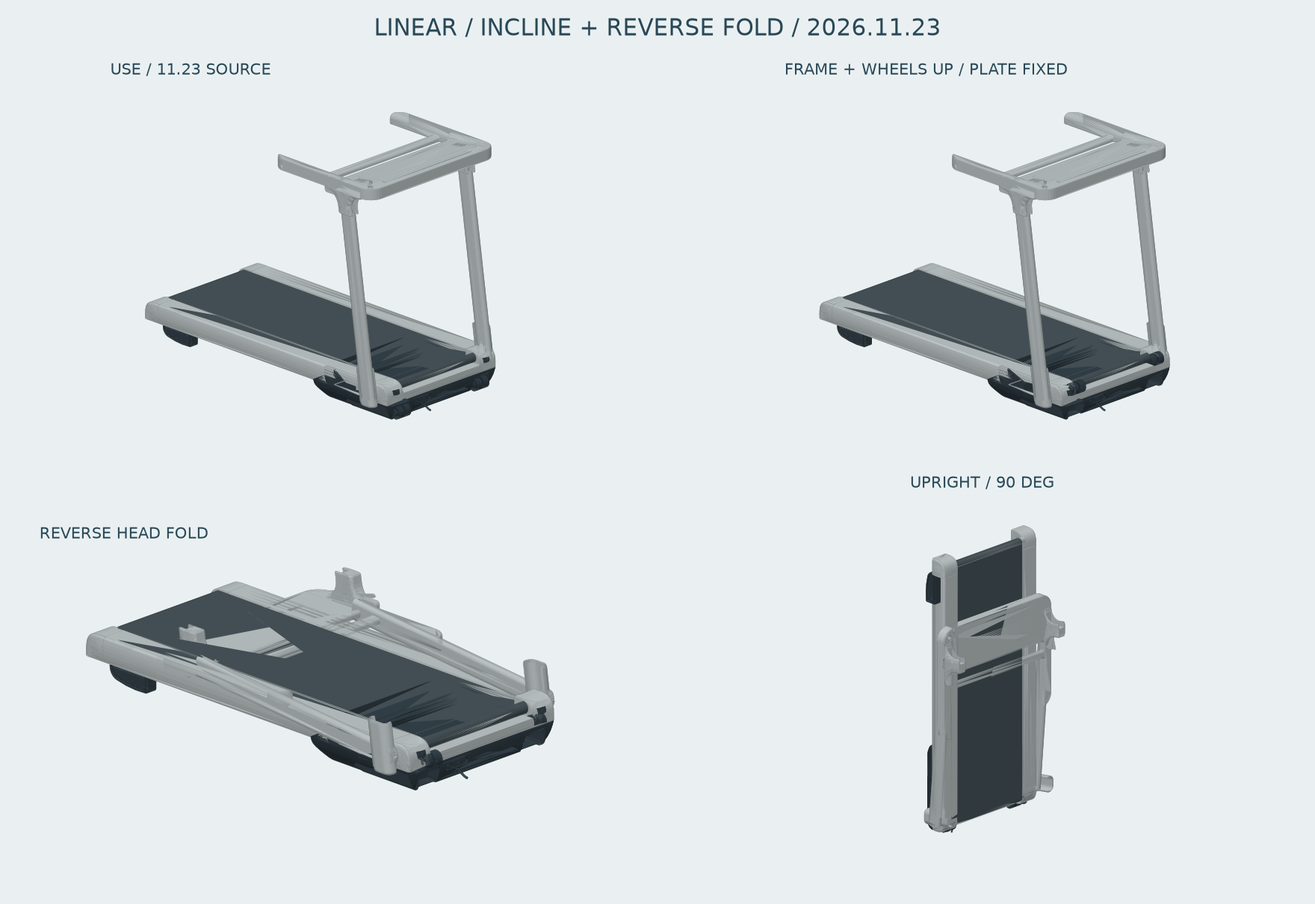
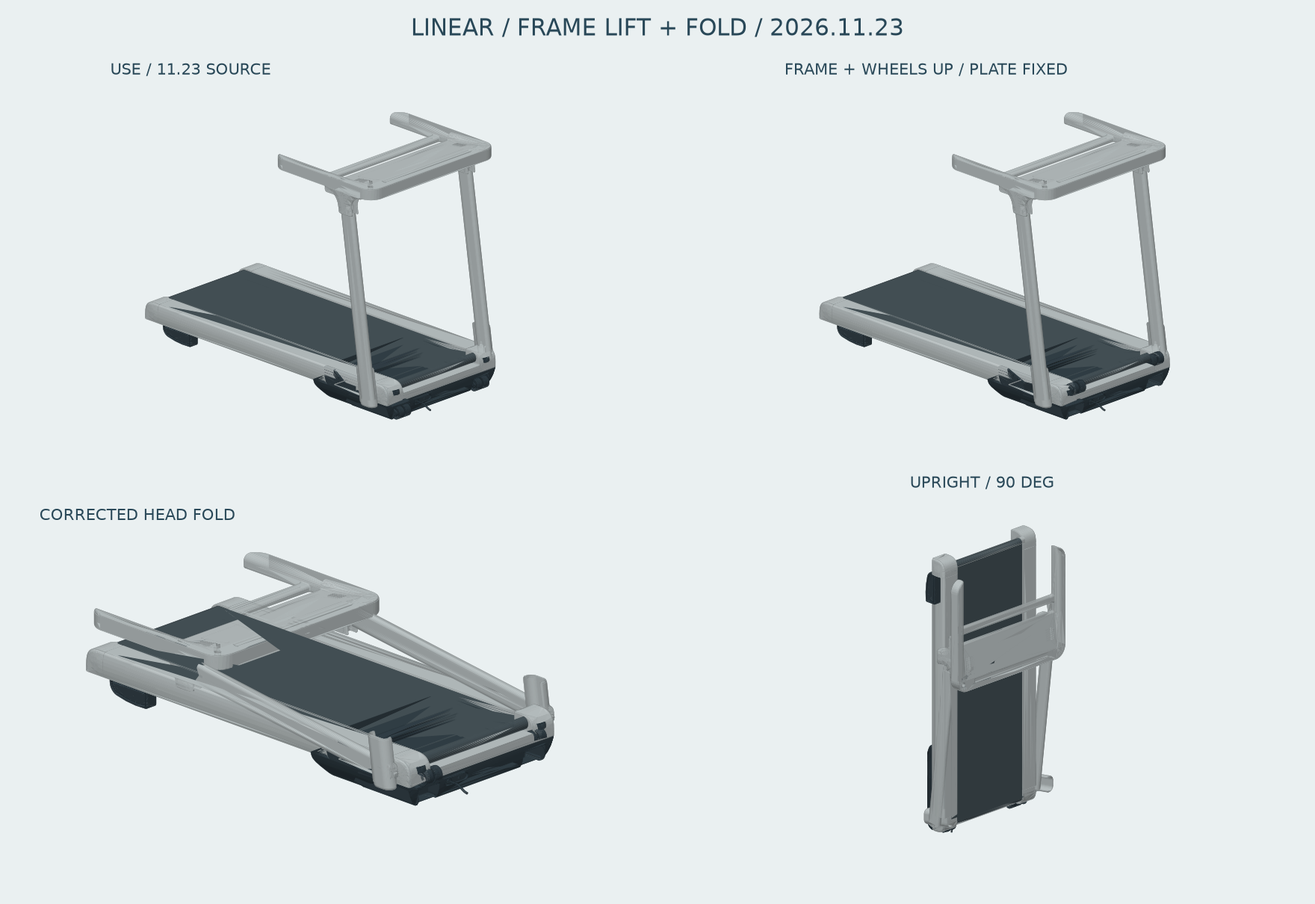
Correct head folding direction while preserving fixed bottom panel and frame-only lift

diff --git a/iterations/linear/index.html b/iterations/linear/index.html
@@ -6,12 +6,12 @@
 <main id="top"><section class="intro"><div><p class="eyebrow">凌序 / DESIGN REVIEW</p><h1>凌序</h1><p class="lead">整机、折叠与用户自选把手。</p></div><div class="review-label"><span class="dot"></span>独立评审稿<span>整机 / 动作 / 选项</span></div></section>
 <div class="review-navigation"><nav class="single-navigation" aria-label="本方案目录"><a href="#whole">整机</a><a href="#body-dimensions">机身尺寸</a><a href="#incline-15">15°抬升态</a><a href="#motion">模型与动作</a><a href="#finishing">点睛之笔</a><a href="#panels">屏幕与面板</a></nav><button class="model-launch" id="open-model"><strong>进入凌序3D模型</strong><span>本方案独立模型 →</span></button></div>
 <section id="whole" aria-label="整机与家居效果图"><div class="section-heading"><span class="section-number">01</span><h2>整机形态</h2><p>点开图片，可放大查看</p></div><article class="product" data-product="linear"><div class="product-heading"><div><span class="eyebrow">01 / LINEAR</span><h2>凌序<span>原STEP结构基准 · 把手支持用户选配</span></h2></div><span class="source-tag">新STEP外形基准 · 效果图待评审</span></div><figure id="linear-main-user" style="max-width:1300px;margin:24px auto;aspect-ratio:1360/768"><button class="zoom" data-image="https://calfnai.github.io/lijiujia-z7pro-model/iterations/review-content-selection-20261117/linear-main-original.png" data-title="凌序 LINEAR · 用户指定主图" aria-label="放大：凌序 LINEAR · 用户指定主图" style="width:100%;height:100%;min-height:0"><img src="https://calfnai.github.io/lijiujia-z7pro-model/iterations/review-content-selection-20261117/linear-main-original.png" alt="凌序 LINEAR · 用户指定主图" loading="lazy" style="display:block;width:100%;height:100%;object-fit:contain"></button></figure><div class="gallery"><figure class="native-bottom"><button class="zoom" data-image="https://calfnai.github.io/lijiujia-z7pro-model/iterations/linear-native-20261115/linear-bottom.webp" data-title="凌序 · 原装配机底与镜面分区" aria-label="放大机底"><img src="https://calfnai.github.io/lijiujia-z7pro-model/iterations/linear-native-20261115/linear-bottom.webp" alt="凌序原装配机底、下置机头与原抬升架" width="1600" height="1200" loading="lazy"><span class="zoom-icon">↗</span></button><figcaption><strong>原装配机底 · 镜面分区</strong><span>保留真实底部与原支架，中央镜面饰板为外观提议；采用可拆卸线缆。</span></figcaption></figure><figure id="linear-current-mirror-0" style="margin:24px auto;max-width:1120px"><button class="zoom" data-image="https://calfnai.github.io/lijiujia-z7pro-model/iterations/presentation-20261115/assets/p2-linear-user-20261116.png" data-title="凌序 · 竖放镜面 · 用户指定原图" aria-label="放大：凌序 · 竖放镜面 · 用户指定原图" style="display:block;width:100%;padding:0;border:0;background:transparent"><img src="https://calfnai.github.io/lijiujia-z7pro-model/iterations/presentation-20261115/assets/p2-linear-user-20261116.png" alt="凌序 · 竖放镜面 · 用户指定原图" loading="lazy" style="display:block;width:100%;height:auto;object-fit:contain"></button></figure></div><p class="small" id="linear-mirror-trim-note">侧饰板下层长条面左右均为银色镜面；竖放后对应两条完整长边。分区要求已确认，图面效果待评审。</p><details id="linear-state-reference"><summary>查看用户补充的使用、折叠、抬升与接地原图</summary><div class="gallery"><figure><button class="zoom" data-image="https://calfnai.github.io/lijiujia-z7pro-model/iterations/linear-native-20261115/source-normal.png" data-title="使用态 · 用户补图" aria-label="放大：使用态 · 用户补图"><img src="https://calfnai.github.io/lijiujia-z7pro-model/iterations/linear-native-20261115/source-normal.png" alt="使用态 · 用户补图" loading="lazy"><span class="zoom-icon">↗</span></button><figcaption><strong>使用态 · 用户补图</strong><span>对应原始装配的外观参考</span></figcaption></figure><figure><button class="zoom" data-image="https://calfnai.github.io/lijiujia-z7pro-model/iterations/linear-native-20261115/source-fold.png" data-title="最终折叠态 · 用户确认" aria-label="放大：最终折叠态 · 用户确认"><img src="https://calfnai.github.io/lijiujia-z7pro-model/iterations/linear-native-20261115/source-fold.png" alt="最终折叠态 · 用户确认" loading="lazy"><span class="zoom-icon">↗</span></button><figcaption><strong>最终折叠态 · 用户确认</strong><span>把手相对翻转，立柱放平；屏幕区域刚好接触跑台</span></figcaption></figure><figure><button class="zoom" data-image="https://calfnai.github.io/lijiujia-z7pro-model/iterations/linear-native-20261115/source-stand-contact.png" data-title="竖放接地 · 用户确认" aria-label="放大：竖放接地 · 用户确认"><img src="https://calfnai.github.io/lijiujia-z7pro-model/iterations/linear-native-20261115/source-stand-contact.png" alt="竖放接地 · 用户确认" loading="lazy"><span class="zoom-icon">↗</span></button><figcaption><strong>竖放接地 · 用户确认</strong><span>机头端脚垫与支架轮子共同支撑</span></figcaption></figure></div></details><section id="lifestyle-scene-linear" style="margin:32px 0;padding:24px;background:#e9e7e1"><h3>凌序｜克制材质 · 包豪斯审美之家</h3><figure id="linear-current-mirror-1" style="margin:24px auto;max-width:1120px"><button class="zoom" data-image="https://calfnai.github.io/lijiujia-z7pro-model/iterations/presentation-20261115/assets/p2-linear-user-20261116.png" data-title="凌序 · 竖放镜面 · 用户指定原图" aria-label="放大：凌序 · 竖放镜面 · 用户指定原图" style="display:block;width:100%;padding:0;border:0;background:transparent"><img src="https://calfnai.github.io/lijiujia-z7pro-model/iterations/presentation-20261115/assets/p2-linear-user-20261116.png" alt="凌序 · 竖放镜面 · 用户指定原图" loading="lazy" style="display:block;width:100%;height:auto;object-fit:contain"></button></figure></section><p id="linear-upright-audit">查看90°侧视核对、原模型与三款复核结果 </p></article></section>
-<section id="body-dimensions" class="body-dimensions"><div class="section-heading"><span class="section-number">尺寸</span><h2>机身尺寸</h2><p>水平使用态 · mm / °</p></div><div class="dimension-metrics"><div><small>整机 · 长 × 宽 × 高</small><strong>1448 × 730 × 1094</strong></div><div><small>跑面 · 长 × 宽</small><strong>1300 × 435</strong></div><div><small>跑面离地</small><strong>172</strong></div><div><small>屏幕对水平面</small><strong>32.1°</strong></div></div><div class="gallery"><figure><button class="zoom" data-image="https://calfnai.github.io/lijiujia-z7pro-model/iterations/review-dimensions-20261116/linear-side.svg" data-title="凌序 · 正侧尺寸与屏幕倾角" aria-label="放大凌序 · 正侧尺寸与屏幕倾角"><img src="https://calfnai.github.io/lijiujia-z7pro-model/iterations/review-dimensions-20261116/linear-side.svg" alt="凌序 · 正侧尺寸与屏幕倾角" width="1600" height="1100" loading="lazy"></button></figure><figure><button class="zoom" data-image="https://calfnai.github.io/lijiujia-z7pro-model/iterations/review-dimensions-20261116/linear-plan.svg" data-title="凌序 · 俯视尺寸" aria-label="放大凌序 · 俯视尺寸"><img src="https://calfnai.github.io/lijiujia-z7pro-model/iterations/review-dimensions-20261116/linear-plan.svg" alt="凌序 · 俯视尺寸" width="1600" height="1100" loading="lazy"></button></figure></div></section><section id="incline-15"><div class="section-heading"><span class="section-number">15°</span><h2>抬升态 · 跑台与地面15°</h2><p>以跑带工作面为角度基准</p></div><p style="margin:20px 0"><button id="start-incline" style="padding:15px 23px;background:#405c4c;color:white;border:0;border-radius:6px;font-size:19px;font-weight:700;cursor:pointer">播放抬升过程 · 0°—15° ↗</button></p><div class="gallery"><figure><button class="zoom" data-image="https://calfnai.github.io/lijiujia-z7pro-model/iterations/linear/incline-15-side.webp" data-title="凌序抬升态 · 正侧面 · 15°" aria-label="放大15度抬升态"><img src="https://calfnai.github.io/lijiujia-z7pro-model/iterations/linear/incline-15-side.webp" alt="凌序跑台与地面15度 · 正侧面" width="1800" height="1100" loading="lazy"><span class="zoom-icon">↗</span></button><figcaption><strong>凌序 · 正侧面</strong><span>跑台工作面与水平地面15° · 抬升架展开 · 轮组保持接地</span></figcaption></figure><figure><button class="zoom" data-image="https://calfnai.github.io/lijiujia-z7pro-model/iterations/linear/incline-15-left.webp?rev=review-withdrawals-easycord-20261116" data-title="凌序抬升态 · 45° · 15°" aria-label="放大15度抬升态"><img src="https://calfnai.github.io/lijiujia-z7pro-model/iterations/linear/incline-15-left.webp?rev=review-withdrawals-easycord-20261116" alt="凌序跑台与地面15度 · 45°" width="1800" height="1100" loading="lazy"><span class="zoom-icon">↗</span></button><figcaption><strong>凌序 · 45°</strong><span>跑台工作面与水平地面15° · 抬升架展开 · 轮组保持接地</span></figcaption></figure></div><p>跑板与水平地面15°；抬升架沿原轴展开，四个轮子的最低点与后支撑均落在同一地面。接地姿态已核对；原CAD存在局部实体重叠，推杆限位与承载仍待核验。</p><p><a href="https://calfnai.github.io/lijiujia-z7pro-model/iterations/linear/model.html?rev=linear-motion-fixed-plate-r2" target="_blank" rel="noopener">打开本款15°抬升态模型 ↗</a></p><details><summary>原始补图（保留参考，当前目标角度统一为15°）</summary><figure><button class="zoom" data-image="https://calfnai.github.io/lijiujia-z7pro-model/iterations/linear-native-20261115/source-incline.png" data-title="抬升态 · 用户补图" aria-label="放大：抬升态 · 用户补图"><img src="https://calfnai.github.io/lijiujia-z7pro-model/iterations/linear-native-20261115/source-incline.png" alt="抬升态 · 用户补图" loading="lazy"><span class="zoom-icon">↗</span></button><figcaption><strong>抬升态 · 用户补图</strong><span>原支架、下置机头与跑台的关系</span></figcaption></figure></details></section><section id="motion"><div class="section-heading"><span class="section-number">02</span><h2>模型与动作</h2><p>凌序</p></div><section id="linear-fold-r2" style="margin:32px 0;padding:24px;background:#eee9df"><h3>凌序 · 收平抬升架与扶手折叠</h3><p>先收平抬升架与推杆，再翻转扶手屏幕、放平立柱。屏幕区域刚好接触跑台，扶手不低于收平后的机身。</p><video controls="" playsinline="" preload="none" poster="https://calfnai.github.io/lijiujia-z7pro-model/iterations/linear-fold-r2-20261115/linear-folded-side.webp?rev=compact-fold-20261115b" style="display:block;width:100%;max-height:720px" src="https://calfnai.github.io/lijiujia-z7pro-model/iterations/linear-fold-r2-20261115/linear-fold-r2.mp4?rev=compact-fold-20261115b">浏览器不支持视频，请打开交互模型。</video><p><a href="https://calfnai.github.io/lijiujia-z7pro-model/iterations/linear/model.html?rev=linear-motion-fixed-plate-r2" target="_blank" rel="noopener" style="display:inline-block;padding:12px 18px;background:#405c4c;color:white">播放／拖动把手折叠 ↗</a></p><p style="font-size:13px">原始网格保留。按用户截图更新把手和立柱的运动关系；解锁、锁止与承载仍待工程核验。</p></section><div class="motion-shell"><div class="motion-poster" id="motion-poster"><div><p>从静态，进入动作。</p><button id="start-model">打开互动模型 · 抬升／折叠 <span>↗</span></button><small>整机、折叠与用户自选把手。</small></div></div><iframe id="model-frame" title="凌序独立模型" hidden=""></iframe><p id="model-error" hidden="" role="alert">模型暂未载入。<button id="retry-model">重试</button></p></div><p class="caption-note">模型用于外观与动作评审；工程核验状态以模型内说明为准。防滑材质位置未核实，当前不赋予推测覆盖区域。</p></section>
+<section id="body-dimensions" class="body-dimensions"><div class="section-heading"><span class="section-number">尺寸</span><h2>机身尺寸</h2><p>水平使用态 · mm / °</p></div><div class="dimension-metrics"><div><small>整机 · 长 × 宽 × 高</small><strong>1448 × 730 × 1094</strong></div><div><small>跑面 · 长 × 宽</small><strong>1300 × 435</strong></div><div><small>跑面离地</small><strong>172</strong></div><div><small>屏幕对水平面</small><strong>32.1°</strong></div></div><div class="gallery"><figure><button class="zoom" data-image="https://calfnai.github.io/lijiujia-z7pro-model/iterations/review-dimensions-20261116/linear-side.svg" data-title="凌序 · 正侧尺寸与屏幕倾角" aria-label="放大凌序 · 正侧尺寸与屏幕倾角"><img src="https://calfnai.github.io/lijiujia-z7pro-model/iterations/review-dimensions-20261116/linear-side.svg" alt="凌序 · 正侧尺寸与屏幕倾角" width="1600" height="1100" loading="lazy"></button></figure><figure><button class="zoom" data-image="https://calfnai.github.io/lijiujia-z7pro-model/iterations/review-dimensions-20261116/linear-plan.svg" data-title="凌序 · 俯视尺寸" aria-label="放大凌序 · 俯视尺寸"><img src="https://calfnai.github.io/lijiujia-z7pro-model/iterations/review-dimensions-20261116/linear-plan.svg" alt="凌序 · 俯视尺寸" width="1600" height="1100" loading="lazy"></button></figure></div></section><section id="incline-15"><div class="section-heading"><span class="section-number">15°</span><h2>抬升态 · 跑台与地面15°</h2><p>以跑带工作面为角度基准</p></div><p style="margin:20px 0"><button id="start-incline" style="padding:15px 23px;background:#405c4c;color:white;border:0;border-radius:6px;font-size:19px;font-weight:700;cursor:pointer">播放抬升过程 · 0°—15° ↗</button></p><div class="gallery"><figure><button class="zoom" data-image="https://calfnai.github.io/lijiujia-z7pro-model/iterations/linear/incline-15-side.webp" data-title="凌序抬升态 · 正侧面 · 15°" aria-label="放大15度抬升态"><img src="https://calfnai.github.io/lijiujia-z7pro-model/iterations/linear/incline-15-side.webp" alt="凌序跑台与地面15度 · 正侧面" width="1800" height="1100" loading="lazy"><span class="zoom-icon">↗</span></button><figcaption><strong>凌序 · 正侧面</strong><span>跑台工作面与水平地面15° · 抬升架展开 · 轮组保持接地</span></figcaption></figure><figure><button class="zoom" data-image="https://calfnai.github.io/lijiujia-z7pro-model/iterations/linear/incline-15-left.webp?rev=review-withdrawals-easycord-20261116" data-title="凌序抬升态 · 45° · 15°" aria-label="放大15度抬升态"><img src="https://calfnai.github.io/lijiujia-z7pro-model/iterations/linear/incline-15-left.webp?rev=review-withdrawals-easycord-20261116" alt="凌序跑台与地面15度 · 45°" width="1800" height="1100" loading="lazy"><span class="zoom-icon">↗</span></button><figcaption><strong>凌序 · 45°</strong><span>跑台工作面与水平地面15° · 抬升架展开 · 轮组保持接地</span></figcaption></figure></div><p>跑板与水平地面15°；抬升架沿原轴展开，四个轮子的最低点与后支撑均落在同一地面。接地姿态已核对；原CAD存在局部实体重叠，推杆限位与承载仍待核验。</p><p><a href="https://calfnai.github.io/lijiujia-z7pro-model/iterations/linear/model.html?rev=linear-motion-fold-direction-r3" target="_blank" rel="noopener">打开本款15°抬升态模型 ↗</a></p><details><summary>原始补图（保留参考，当前目标角度统一为15°）</summary><figure><button class="zoom" data-image="https://calfnai.github.io/lijiujia-z7pro-model/iterations/linear-native-20261115/source-incline.png" data-title="抬升态 · 用户补图" aria-label="放大：抬升态 · 用户补图"><img src="https://calfnai.github.io/lijiujia-z7pro-model/iterations/linear-native-20261115/source-incline.png" alt="抬升态 · 用户补图" loading="lazy"><span class="zoom-icon">↗</span></button><figcaption><strong>抬升态 · 用户补图</strong><span>原支架、下置机头与跑台的关系</span></figcaption></figure></details></section><section id="motion"><div class="section-heading"><span class="section-number">02</span><h2>模型与动作</h2><p>凌序</p></div><section id="linear-fold-r2" style="margin:32px 0;padding:24px;background:#eee9df"><h3>凌序 · 收平抬升架与扶手折叠</h3><p>先收平抬升架与推杆，再翻转扶手屏幕、放平立柱。屏幕区域刚好接触跑台，扶手不低于收平后的机身。</p><video controls="" playsinline="" preload="none" poster="https://calfnai.github.io/lijiujia-z7pro-model/iterations/linear-fold-r2-20261115/linear-folded-side.webp?rev=compact-fold-20261115b" style="display:block;width:100%;max-height:720px" src="https://calfnai.github.io/lijiujia-z7pro-model/iterations/linear-fold-r2-20261115/linear-fold-r2.mp4?rev=compact-fold-20261115b">浏览器不支持视频，请打开交互模型。</video><p><a href="https://calfnai.github.io/lijiujia-z7pro-model/iterations/linear/model.html?rev=linear-motion-fold-direction-r3" target="_blank" rel="noopener" style="display:inline-block;padding:12px 18px;background:#405c4c;color:white">播放／拖动把手折叠 ↗</a></p><p style="font-size:13px">原始网格保留。按用户截图更新把手和立柱的运动关系；解锁、锁止与承载仍待工程核验。</p></section><div class="motion-shell"><div class="motion-poster" id="motion-poster"><div><p>从静态，进入动作。</p><button id="start-model">打开互动模型 · 抬升／折叠 <span>↗</span></button><small>整机、折叠与用户自选把手。</small></div></div><iframe id="model-frame" title="凌序独立模型" hidden=""></iframe><p id="model-error" hidden="" role="alert">模型暂未载入。<button id="retry-model">重试</button></p></div><p class="caption-note">模型用于外观与动作评审；工程核验状态以模型内说明为准。防滑材质位置未核实，当前不赋予推测覆盖区域。</p></section>
 <!-- FOLD-ACCESS-START --><!-- FOLD-ACCESS-END --><section id="finishing"><div class="section-heading"><span class="section-number">03</span><h2>点睛之笔</h2><p>整机与动作之后，再看细节</p></div><div data-detail="linear"><!-- LINEAR-GRIPS-START --><div id="linear-grips"><div class="detail-heading"><h3>凌序 · 把手 Options（用户自选）</h3><p>四款把手面向用户提供个性化选择，可按握感、材质与功能偏好选配；多样化把手选配是凌序的产品卖点之一。</p></div><div class="details-grid"><figure class="detail-card"><button class="zoom" data-image="https://calfnai.github.io/lijiujia-z7pro-model/iterations/linear-grip-side-cut-r5-20261116/01-diagonal-antislip.webp" data-title="斜筋防滑握把（细化）" aria-label="放大：斜筋防滑握把（细化）"><img src="https://calfnai.github.io/lijiujia-z7pro-model/iterations/linear-grip-side-cut-r5-20261116/01-diagonal-antislip.webp" width="1774" height="887" alt="斜筋防滑握把（细化）：用户指定当前图稿" loading="lazy"><span class="zoom-icon" aria-hidden="true">↗</span></button><figcaption><strong>01 · 斜筋防滑握把（细化）</strong><span>用户指定图稿与名称</span></figcaption><div class="texture-details"><p class="texture-label">纹理细节 · 细浅斜筋</p><button class="zoom texture-close" data-image="https://calfnai.github.io/lijiujia-z7pro-model/iterations/linear-grip-side-cut-r5-20261116/01-diagonal-antislip.webp" data-title="细浅斜筋 · 已验收方案局部" aria-label="放大：细浅斜筋 · 已验收方案局部"><img src="https://calfnai.github.io/lijiujia-z7pro-model/iterations/linear-grip-side-cut-r5-20261116/01-diagonal-antislip.webp" alt="细浅斜筋 · 已验收方案局部" loading="lazy"><span class="zoom-icon" aria-hidden="true">↗</span></button><p class="texture-note">已验收图稿的局部放大 · 点击查看完整原图</p></div></figure><figure class="detail-card"><button class="zoom" data-image="https://calfnai.github.io/lijiujia-z7pro-model/iterations/linear-grip-side-cut-r5-20261116/02-leather.webp" data-title="皮质握把" aria-label="放大：皮质握把"><img src="https://calfnai.github.io/lijiujia-z7pro-model/iterations/linear-grip-side-cut-r5-20261116/02-leather.webp" width="1774" height="887" alt="皮质握把修订概念" loading="lazy"><span class="zoom-icon" aria-hidden="true">↗</span></button><figcaption><strong>02 · 皮质握把</strong><span>用户已验收通过</span></figcaption><div class="texture-details"><p class="texture-label">纹理细节 · 细皮纹与缝线</p><button class="zoom texture-close" data-image="https://calfnai.github.io/lijiujia-z7pro-model/iterations/linear-grip-side-cut-r5-20261116/02-leather.webp" data-title="细皮纹与缝线 · 已验收方案局部" aria-label="放大：细皮纹与缝线 · 已验收方案局部"><img src="https://calfnai.github.io/lijiujia-z7pro-model/iterations/linear-grip-side-cut-r5-20261116/02-leather.webp" alt="细皮纹与缝线 · 已验收方案局部" loading="lazy"><span class="zoom-icon" aria-hidden="true">↗</span></button><p class="texture-note">已验收图稿的局部放大 · 点击查看完整原图</p><button class="zoom texture-photo" data-image="https://calfnai.github.io/lijiujia-z7pro-model/iterations/linear-grip-texture-details-20261117/02-leather-reference.png" data-title="皮纹与缝线 · 用户提供的材质参考" aria-label="放大：皮纹与缝线 · 用户提供的材质参考"><img src="https://calfnai.github.io/lijiujia-z7pro-model/iterations/linear-grip-texture-details-20261117/02-leather-reference.png" alt="皮纹与缝线 · 用户提供的材质参考" loading="lazy"><span class="zoom-icon" aria-hidden="true">↗</span></button><p class="texture-note">皮纹与缝线 · 用户提供的材质参考。观察细皮纹、表面光泽与缝线。</p></div></figure><figure class="detail-card"><button class="zoom" data-image="https://calfnai.github.io/lijiujia-z7pro-model/iterations/linear-grip-side-cut-r5-20261116/03-fine-grid-silicone.webp" data-title="流线硅胶握把" aria-label="放大：流线硅胶握把"><img src="https://calfnai.github.io/lijiujia-z7pro-model/iterations/linear-grip-side-cut-r5-20261116/03-fine-grid-silicone.webp" width="1774" height="887" alt="流线硅胶握把：B细交叉网格版，用户确认" loading="lazy"><span class="zoom-icon" aria-hidden="true">↗</span></button><figcaption><strong>03 · 流线硅胶握把</strong><span>已确认B细交叉网格 · 用户可选把手</span></figcaption><div class="texture-details"><p class="texture-label">纹理细节 · B细交叉网格</p><button class="zoom texture-close" data-image="https://calfnai.github.io/lijiujia-z7pro-model/iterations/linear-grip-side-cut-r5-20261116/03-fine-grid-silicone.webp" data-title="B细交叉网格 · 已验收方案局部" aria-label="放大：B细交叉网格 · 已验收方案局部"><img src="https://calfnai.github.io/lijiujia-z7pro-model/iterations/linear-grip-side-cut-r5-20261116/03-fine-grid-silicone.webp" alt="B细交叉网格 · 已验收方案局部" loading="lazy"><span class="zoom-icon" aria-hidden="true">↗</span></button><p class="texture-note">已验收图稿的局部放大 · 点击查看完整原图</p><button class="zoom texture-photo texture-grid-photo" data-image="https://calfnai.github.io/lijiujia-z7pro-model/iterations/linear-grip-texture-details-20261117/03-grid-reference.png?rev=ixo6-original-20261117" data-title="浅交叉纹 · Bosch IXO 6 原始大图" aria-label="放大：浅交叉纹 · Bosch IXO 6 原始大图"><img src="https://calfnai.github.io/lijiujia-z7pro-model/iterations/linear-grip-texture-details-20261117/03-grid-reference.png?rev=ixo6-original-20261117" alt="浅交叉纹 · Bosch IXO 6 原始大图" width="2304" height="1536" loading="lazy"><span class="zoom-icon" aria-hidden="true">↗</span></button><p class="texture-note">浅交叉纹 · Bosch IXO 6 原始大图 · 2304×1536。局部展示浅交叉网格，点击查看完整原图。</p><a class="texture-source" href="https://ifdesign.com/en/winner-ranking/project/ixo-6/260193" target="_blank" rel="noopener">原始图片来源 · iF Design ↗</a></div></figure><figure class="detail-card"><button class="zoom" data-image="https://calfnai.github.io/lijiujia-z7pro-model/iterations/linear-grip-side-cut-r5-20261116/04-heart-rate.webp" data-title="心率监测把手"><img src="https://calfnai.github.io/lijiujia-z7pro-model/iterations/linear-grip-side-cut-r5-20261116/04-heart-rate.webp" width="1774" height="887" alt="沿用心率电极布局概念" loading="lazy"></button><figcaption><strong>04 · 心率监测把手</strong><span>沿用上轮 · 电路与实测未完成</span></figcaption><div class="texture-details"><p class="texture-label">纹理细节 · 金属电极与包胶边界</p><button class="zoom texture-close" data-image="https://calfnai.github.io/lijiujia-z7pro-model/iterations/linear-grip-side-cut-r5-20261116/04-heart-rate.webp" data-title="金属电极与包胶边界 · 已验收方案局部" aria-label="放大：金属电极与包胶边界 · 已验收方案局部"><img src="https://calfnai.github.io/lijiujia-z7pro-model/iterations/linear-grip-side-cut-r5-20261116/04-heart-rate.webp" alt="金属电极与包胶边界 · 已验收方案局部" loading="lazy"><span class="zoom-icon" aria-hidden="true">↗</span></button><p class="texture-note">已验收图稿的局部放大 · 点击查看完整原图</p></div></figure></div><p class="small">四款已确认材质改为正侧面局部展示；金属与握把直接切齐分界，不做渐变。本组不展示屏幕，2026.11.16 · 用户已验收通过。尺寸、接口、承载与折叠净距待校核。<a href="https://calfnai.github.io/lijiujia-z7pro-model/iterations/linear-grip-side-cut-r5-20261116/" target="_blank" rel="noopener">查看标准连接处与四款材质特写 ↗</a></p><details id="linear-grip-history"><summary class="discussion-title">凌序 · 把手历史图稿</summary><p id="silicone-all-versions-link" class="small"><a href="https://calfnai.github.io/lijiujia-z7pro-model/iterations/linear-silicone-review-20261114/" target="_blank" rel="noopener">查看硅胶握把全部历史原图 A–D ↗</a> · 已确认B｜细交叉网格版为流线硅胶握把；其他把手方案暂保留。</p></details></div><!-- LINEAR-GRIPS-END --><details id="linear-corner-options"><summary style="font-size:20px;font-weight:700;padding:18px 0;cursor:pointer">凌序 · 转角 Options讨论稿</summary><p>整机基准以STEP为准；四种转角外观方案并列讨论，尚未选定。</p><div class="details-grid"><figure class="detail-card"><button class="zoom" data-image="https://calfnai.github.io/lijiujia-z7pro-model/iterations/linear-junction-20261113/web/01-continuous-radius.webp" data-title="一体圆角" aria-label="放大：一体圆角"><img src="https://calfnai.github.io/lijiujia-z7pro-model/iterations/linear-junction-20261113/web/01-continuous-radius.webp" alt="一体圆角" width="1600" height="1200" loading="lazy"><span class="zoom-icon" aria-hidden="true">↗</span></button><figcaption><strong>一体圆角</strong><span>既有四种外观提议 · 尚未选定</span></figcaption></figure><figure class="detail-card"><button class="zoom" data-image="https://calfnai.github.io/lijiujia-z7pro-model/iterations/linear-junction-20261113/web/02-chamfered-shoulder.webp" data-title="折面肩部" aria-label="放大：折面肩部"><img src="https://calfnai.github.io/lijiujia-z7pro-model/iterations/linear-junction-20261113/web/02-chamfered-shoulder.webp" alt="折面肩部" width="1600" height="1200" loading="lazy"><span class="zoom-icon" aria-hidden="true">↗</span></button><figcaption><strong>折面肩部</strong><span>既有四种外观提议 · 尚未选定</span></figcaption></figure><figure class="detail-card"><button class="zoom" data-image="https://calfnai.github.io/lijiujia-z7pro-model/iterations/linear-junction-20261113/web/03-recessed-collar.webp" data-title="分件包覆" aria-label="放大：分件包覆"><img src="https://calfnai.github.io/lijiujia-z7pro-model/iterations/linear-junction-20261113/web/03-recessed-collar.webp" alt="分件包覆" width="1600" height="1200" loading="lazy"><span class="zoom-icon" aria-hidden="true">↗</span></button><figcaption><strong>分件包覆</strong><span>既有四种外观提议 · 尚未选定</span></figcaption></figure><figure class="detail-card"><button class="zoom" data-image="https://calfnai.github.io/lijiujia-z7pro-model/iterations/linear-junction-20261113/web/04-inset-support.webp" data-title="内收支撑" aria-label="放大：内收支撑"><img src="https://calfnai.github.io/lijiujia-z7pro-model/iterations/linear-junction-20261113/web/04-inset-support.webp" alt="内收支撑" width="1600" height="1200" loading="lazy"><span class="zoom-icon" aria-hidden="true">↗</span></button><figcaption><strong>内收支撑</strong><span>既有四种外观提议 · 尚未选定</span></figcaption></figure></div></details></div></section><section id="panels"><div class="section-heading"><span class="section-number">04</span><h2>屏幕与面板</h2><p>两版屏幕原图并列</p></div><div class="details-grid screen-baselines"><figure><button class="zoom" data-image="https://calfnai.github.io/lijiujia-z7pro-model/iterations/screen-baselines-20261116/01-round-buttons-original.png" data-title="屏幕原图 · 圆形按键版" aria-label="放大屏幕原图 · 圆形按键版" style="display:block;width:100%;height:auto;aspect-ratio:auto;padding:0;border:0"><img src="https://calfnai.github.io/lijiujia-z7pro-model/iterations/screen-baselines-20261116/01-round-buttons-original.png" alt="屏幕原图 · 圆形按键版" width="1280" height="319" loading="lazy" style="width:100%;height:auto!important;aspect-ratio:auto;object-fit:contain"></button><figcaption>圆形按键版</figcaption></figure><figure><button class="zoom" data-image="https://calfnai.github.io/lijiujia-z7pro-model/iterations/screen-baselines-20261116/02-separate-buttons-original.png" data-title="屏幕原图 · 分列按键版" aria-label="放大屏幕原图 · 分列按键版" style="display:block;width:100%;height:auto;aspect-ratio:auto;padding:0;border:0"><img src="https://calfnai.github.io/lijiujia-z7pro-model/iterations/screen-baselines-20261116/02-separate-buttons-original.png" alt="屏幕原图 · 分列按键版" width="2508" height="627" loading="lazy" style="width:100%;height:auto!important;aspect-ratio:auto;object-fit:contain"></button><figcaption>分列按键版</figcaption></figure></div><p class="caption-note">两版屏幕原图并列保留，未二选一；完整显示并保持各自原比例。屏幕画面与面板外壳分别评审。</p><details id="linear-panel-discussion"><summary class="discussion-title">凌序 · 面板外观讨论稿</summary><div class="details-grid"><figure><button class="zoom" data-image="https://calfnai.github.io/lijiujia-z7pro-model/iterations/panel-redesign-v03-20261115/C2.png" data-title="凌序面板 C2" aria-label="放大面板 C2"><img src="https://calfnai.github.io/lijiujia-z7pro-model/iterations/panel-redesign-v03-20261115/C2.png" alt="凌序面板 C2" loading="lazy"><span class="zoom-icon">↗</span></button><figcaption>凌序 · C2（外壳参考）</figcaption></figure></div><p class="caption-note">C2保留为既有面板外壳参考；其中旧屏幕画面与表面映射不作为当前屏幕基准。</p><figure><button class="zoom" data-image="https://calfnai.github.io/lijiujia-z7pro-model/iterations/linear-panel-c2-20261115/model-panel-c2.webp" data-title="C2已映射到凌序原面板"><img style="width:100%;height:auto" src="https://calfnai.github.io/lijiujia-z7pro-model/iterations/linear-panel-c2-20261115/model-panel-c2.webp" loading="lazy" alt="C2映射到原CAD面板表面"></button><figcaption>C2 · 既有映射参考</figcaption></figure><section id="yu7-console-review" aria-label="YU7感觉参考面板" style="margin:24px 0;padding:22px 24px;border-radius:14px;background:#142128;color:#dfebe7"><strong style="display:block;font-size:22px;margin-bottom:8px">凌序「天际横带」· 面板讨论稿</strong><span style="display:block;margin-bottom:12px">参照YU7仪表台的贯穿信息带与材质分层，冷白主读数、固定蓝紫流线和钛色操作下沿。新增候选，待评审。</span><a style="color:#bbd5e1;text-decoration:underline" href="https://calfnai.github.io/lijiujia-z7pro-model/iterations/yu7-console-20261115/" target="_blank" rel="noopener">打开单款面板与放大图 ↗</a></section></details></section><section id="selected-scope"><div class="section-heading"><span class="section-number">05</span><h2>方案讨论稿</h2></div><details id="linear-manufacturer-discussion"><summary class="discussion-title">凌序 · 厂商选用项讨论稿</summary><p>镜面底面与额外增稳机构为本方案的厂商可选项，具体采用范围待深化评估。</p><p>B细交叉网格为已选纹理；实际防滑覆盖位置尚未核实，错误五视图维持撤回。</p></details></section>
 
 <footer><span>LIJIUJIA / 凌序</span><a href="#top">回到顶部 ↑</a></footer></main>
 <dialog id="lightbox" aria-label="图片放大查看"><div class="lightbox-bar"><span id="lightbox-title"></span><div><button id="zoom-out" aria-label="缩小">−</button><button id="zoom-in" aria-label="放大">＋</button><button id="close-lightbox">关闭 ×</button></div></div><div id="lightbox-scroll"><img id="lightbox-image" alt=""></div><p>点击加减放大；放大后可滚动查看局部。</p></dialog>
-<script>const PRODUCT={"name": "\u51cc\u5e8f", "model": "https://calfnai.github.io/lijiujia-z7pro-model/iterations/linear/model.html?rev=linear-motion-fixed-plate-r2", "fold": "https://calfnai.github.io/lijiujia-z7pro-model/iterations/linear/model.html?rev=linear-motion-fixed-plate-r2"},$=id=>document.getElementById(id);
+<script>const PRODUCT={"name": "\u51cc\u5e8f", "model": "https://calfnai.github.io/lijiujia-z7pro-model/iterations/linear/model.html?rev=linear-motion-fold-direction-r3", "fold": "https://calfnai.github.io/lijiujia-z7pro-model/iterations/linear/model.html?rev=linear-motion-fold-direction-r3"},$=id=>document.getElementById(id);
 function start(mode){const f=$('model-frame');$('model-error').hidden=true;$('motion-poster').hidden=true;f.hidden=false;f.src=PRODUCT.model+(mode==='incline'?'&incline=play':'');}
 $('start-incline').onclick=()=>{start('incline');$('model-frame').scrollIntoView({behavior:matchMedia('(prefers-reduced-motion: reduce)').matches?'instant':'smooth'})};
 $('start-model').onclick=start;$('retry-model').onclick=start;$('open-model').onclick=()=>{if(!$('model-frame').getAttribute('src'))start();$('motion').scrollIntoView({behavior:matchMedia('(prefers-reduced-motion: reduce)').matches?'instant':'smooth'})};

diff --git a/iterations/linear/motion-20261123/motion.js b/iterations/linear/motion-20261123/motion.js
@@ -16,7 +16,7 @@ function minWorld(list){body.updateMatrixWorld(true);let min=Infinity;for(const 
 function pose(){post.rotation.z=lowerEnd*clamp((progress-.45)/.55);head.rotation.z=headEnd*clamp((progress-.18)/.27);lift.rotation.z=-rad(9.12)*clamp(progress/.18);body.rotation.z=standing?Math.PI/2:0;body.position.set(0,0,0);
 if(progress===0&&!standing){body.position.y=restingHeight;lift.rotation.z=-rad(angle);}else{body.position.y=-minWorld(meshes);}
 body.updateMatrixWorld(true);$('lift').value=angle;$('lift-value').textContent=angle.toFixed(1).replace(/\.0$/,'')+'°';$('fold').value=progress*100;$('fold-value').textContent=Math.round(progress*100)+'%';
-$('state').textContent=standing?'竖放 · 90°':angle>0?'底板固定 · 架子与轮组上抬 '+angle.toFixed(1)+'°':progress===0?'使用态 · 新 STEP 原始外观':progress===1?'折平终态 · 头部反向翻转':progress<.18?'① 抬升架收平':progress<.45?'② 头部反向翻转 · 小扳机保留':'③ 立柱沿原轴放倒';render();}
+$('state').textContent=standing?'竖放 · 90°':angle>0?'底板固定 · 架子与轮组上抬 '+angle.toFixed(1)+'°':progress===0?'使用态 · 新 STEP 原始外观':progress===1?'折平终态 · 头部翻转':progress<.18?'① 抬升架收平':progress<.45?'② 头部翻转 · 小扳机保留':'③ 立柱沿原轴放倒';render();}
 function stop(){playing=null;cancelAnimationFrame(raf);$('play-lift').textContent='播放抬升';$('play-fold').textContent='播放折叠';}
 function tick(t){if(!playing)return;start||=t;const q=clamp((t-start)/6000),smooth=q*q*(3-2*q);if(playing==='lift')angle=from+(15-from)*smooth;else progress=from+(1-from)*smooth;pose();if(q<1)raf=requestAnimationFrame(tick);else stop();}
 function play(kind){if(!ready)return;if(playing===kind){stop();return;}stop();standing=false;start=0;if(kind==='lift'){progress=0;angle=angle>=14.99?0:angle;from=angle;}else{angle=0;progress=progress>=.999?0:progress;from=progress;}playing=kind;pose();fit();$(kind==='lift'?'play-lift':'play-fold').textContent='暂停';raf=requestAnimationFrame(tick);}
@@ -24,13 +24,13 @@ function setPose(a=0,p=0,s=false){if(!ready)return;stop();angle=clamp(a,0,15);pr
 function fit(){if(!ready)return;const box=new T.Box3().setFromObject(body),center=box.getCenter(new T.Vector3()),size=box.getSize(new T.Vector3());if(playing){center.set(.76,.54,0);size.set(1.65,1.25,.8);}const direction=V(({iso:[-1,.65,-1],side:[0,.03,-1],bottom:[-.25,-1,-.8]})[view]).normalize();const distance=Math.max(size.y,size.x/camera.aspect,size.z)*.7/Math.tan(rad(camera.fov/2))+size.length()*.35;camera.position.copy(center).addScaledVector(direction,distance);camera.up.set(0,1,0);camera.lookAt(center);controls.target.copy(center);controls.update();render();}
 $('play-lift').onclick=()=>play('lift');$('play-fold').onclick=()=>play('fold');$('lift').oninput=e=>setPose(+e.target.value,0);$('fold').oninput=e=>setPose(0,+e.target.value/100);$('use').onclick=()=>setPose();$('flat').onclick=()=>setPose(0,1);$('stand').onclick=()=>setPose(0,1,true);$('reset').onclick=()=>{view='iso';setPose();};for(const b of document.querySelectorAll('[data-view]'))b.onclick=()=>{view=b.dataset.view;fit();};$('xray').onchange=e=>{for(const m of Object.values(mats)){m.transparent=e.target.checked;m.opacity=e.target.checked?.2:1;m.depthWrite=!e.target.checked;m.needsUpdate=true;}render();};
 function resize(){const r=$('viewport').getBoundingClientRect();renderer.setSize(r.width,r.height);camera.aspect=r.width/r.height;camera.updateProjectionMatrix();fit();}new ResizeObserver(resize).observe($('viewport'));
-async function main(){meta=await(await fetch('meta.json?v=fixed-plate-r2')).json();const r=await fetch('mesh.gz?v=fixed-plate-r2');if(!r.ok)throw Error('模型加载失败');const bytes=await new Response(r.body.pipeThrough(new DecompressionStream('gzip'))).arrayBuffer();
+async function main(){meta=await(await fetch('meta.json?v=fold-direction-r3')).json();const r=await fetch('mesh.gz?v=fold-direction-r3');if(!r.ok)throw Error('模型加载失败');const bytes=await new Response(r.body.pipeThrough(new DecompressionStream('gzip'))).arrayBuffer();
 for(const p of meta.parts){const g=new T.BufferGeometry();g.setAttribute('position',new T.BufferAttribute(new Float32Array(bytes,p.vertexOffset,p.vertexCount*3),3));g.setIndex(new T.BufferAttribute(new Uint32Array(bytes,p.indexOffset,p.indexCount),1));g.computeVertexNormals();const ref=p.ref,kind=ref==='#o1.16'?'belt':ref.startsWith('#o1.6')||['#o1.5','#o1.7','#o1.9','#o1.10','#o1.12','#o1.13'].includes(ref)?'dark':'shell',mesh=new T.Mesh(g,mats[kind]);mesh.userData.ref=ref;meshes.push(mesh);
 const upper=['#o1.4','#o1.11','#o1.15','#o1.17'].includes(ref)||ref.startsWith('#o1.1.2.');const posts=ref.startsWith('#o1.1.')||ref.startsWith('#o1.14.');
 if(upper){head.add(mesh);mesh.position.copy(U).negate();}else if(posts){post.add(mesh);mesh.position.copy(L).negate();}else if(ref.startsWith('#o1.6.')&&ref!=='#o1.6.1.3.s3'){lift.add(mesh);mesh.position.copy(F).negate();if(/^#o1\.6\.(2|3|10|11)$/.test(ref))wheels.push(mesh);}else body.add(mesh);if(ref==='#o1.16')belt=mesh;if(ref==='#o1.7')foot=mesh;}
 if(!belt||!foot||wheels.length!==4)throw Error('运动分组不完整');
-// Set head upside-down, folding in the user's reversed direction. Solve the post endpoint against belt height.
-const deckTop=new T.Box3().setFromObject(belt).max.y;let maxHeadY=-Infinity;for(const m of head.children){const a=m.geometry.attributes.position.array;for(let i=1;i<a.length;i+=3)maxHeadY=Math.max(maxHeadY,a[i]);}let lo=-rad(88),hi=-rad(55);for(let i=0;i<40;i++){const q=(lo+hi)/2,uy=L.y+Math.sin(q)*(U.x-L.x)+Math.cos(q)*(U.y-L.y),minHead=uy-(maxHeadY-U.y);if(minHead<deckTop+.003)lo=q;else hi=q;}lowerEnd=(lo+hi)/2;headEnd=-Math.PI-lowerEnd;
+// Head turns in the opposite direction to the post; finish level above the belt.
+const deckTop=new T.Box3().setFromObject(belt).max.y;let minHeadY=Infinity;for(const m of head.children){const a=m.geometry.attributes.position.array;for(let i=1;i<a.length;i+=3)minHeadY=Math.min(minHeadY,a[i]);}let lo=-rad(88),hi=-rad(55);for(let i=0;i<40;i++){const q=(lo+hi)/2,uy=L.y+Math.sin(q)*(U.x-L.x)+Math.cos(q)*(U.y-L.y),minHead=uy+(minHeadY-U.y);if(minHead<deckTop+.003)lo=q;else hi=q;}lowerEnd=(lo+hi)/2;headEnd=-lowerEnd;
 restingHeight=-minWorld(meshes);ready=true;setPose();resize();$('source-note').textContent=meta.source+' · '+(meta.triangles/10000).toFixed(1)+' 万面。3 个源曲面未能显示；两侧上铰链姿态在源文件中不同，联动以示意轴展示。';$('loading').hidden=true;document.documentElement.dataset.ready='true';
 window.motionReview={setPose,play,stop,renderer,camera,scene,body,meshes,get status(){return {angle,progress,standing,playing,source:meta.source,lowerEnd:lowerEnd*180/Math.PI,headEnd:headEnd*180/Math.PI,wheelGroundMM:minWorld(wheels)*1000,lowestMM:minWorld(meshes)*1000,drawCalls:renderer.info.render.calls,triangles:renderer.info.render.triangles};}};
 window.addEventListener('message',e=>{if(e.source!==parent||e.origin!==location.origin||e.data?.type!=='lijiujia-pose')return;const p=e.data.pose||{};setPose(Number(p.slope)||0,p.state==='folded'||p.state==='stand'?1:0,p.state==='stand');});if(parent!==window)parent.postMessage({type:'lijiujia-ready'},location.origin);if(new URLSearchParams(location.search).get('incline')==='play')play('lift');}

diff --git a/iterations/linear/model.html b/iterations/linear/model.html
@@ -1,1 +1,1 @@
-<!doctype html><html lang="zh-CN"><base href="https://calfnai.github.io/lijiujia-z7pro-model/iterations/linear/motion-20261123/"><meta charset="utf-8"><meta name="viewport" content="width=device-width,initial-scale=1"><title>凌序 · 抬升与折叠</title><style>*{box-sizing:border-box}body{margin:0;background:#eaf0f1;color:#263d48;font:14px/1.65 -apple-system,BlinkMacSystemFont,'PingFang SC',sans-serif}#viewport{position:fixed;inset:0 320px 0 0}canvas{display:block;touch-action:none}aside{position:fixed;right:0;top:0;bottom:0;width:320px;background:#fffffff0;border-left:1px solid #d2dfe3;padding:22px;overflow:auto}h1{font-size:24px;font-weight:550;margin:5px 0 10px}h2{font-size:15px;margin:22px 0 8px}small,p{color:#627882}button{font:inherit;color:inherit;background:#fff;border:1px solid #bccdd5;border-radius:7px;padding:9px 12px;cursor:pointer}button:hover{border-color:#486e80}.primary{background:#365d70;color:white;width:100%;border:0}label{display:block;margin:12px 0}input[type=range]{width:100%;accent-color:#365d70}output{float:right}.row{display:flex;gap:6px;margin:10px 0}.row button{flex:1}#state{padding:10px;background:#e4eef2;border-radius:7px;margin:15px 0}.note{font-size:12px;border-top:1px solid #d2dfe3;padding-top:10px}#loading{position:fixed;left:20px;top:20px;background:white;padding:14px}#loading[hidden]{display:none}@media(max-width:700px){#viewport{position:relative;inset:auto;height:58vh;min-height:300px}aside{position:relative;width:100%;border-left:0;padding:16px}h1{font-size:22px}}</style><script type="importmap">{"imports":{"three":"./three.module.js"}}</script><div id="viewport"></div><div id="loading">正在加载 11.23 新模型…</div><aside><small>LINEAR / SOURCE 2026.11.23</small><h1>凌序 · 抬升与折叠</h1><p>11.23 全域跑台 · 底板固定，架轮活动</p><div id="state">使用态</div><h2>架子与轮组抬升 · 0°—15°</h2><button id="play-lift" class="primary">播放抬升</button><label>支架上抬角度 <output id="lift-value">0°</output><input id="lift" type="range" min="0" max="15" step=".1" value="0"></label><h2>折叠 · 先收架，再反向翻转头部</h2><button id="play-fold" class="primary">播放折叠</button><label>折叠进度 <output id="fold-value">0%</output><input id="fold" type="range" min="0" max="100" step=".1" value="0"></label><div class="row"><button id="use">使用态</button><button id="flat">折平</button><button id="stand">竖放</button></div><div class="row"><button data-view="iso">45°</button><button data-view="side">正侧面</button><button data-view="bottom">机底</button></div><label><input id="xray" type="checkbox"> X-ray 半透明</label><button id="reset" class="primary">复位</button><p class="note">沿用源文件小扳机。头部反向折叠、底板保持原位，仅抬升架与轮组沿原轴上抬；动画为运动评审演示，行程、锁止、防夹与承载尚待工程核验。源 STEP 未改。</p><p class="note" id="source-note"></p></aside><script type="module" src="motion.js?v=fixed-plate-r2"></script></html>
+<!doctype html><html lang="zh-CN"><base href="https://calfnai.github.io/lijiujia-z7pro-model/iterations/linear/motion-20261123/"><meta charset="utf-8"><meta name="viewport" content="width=device-width,initial-scale=1"><title>凌序 · 抬升与折叠</title><style>*{box-sizing:border-box}body{margin:0;background:#eaf0f1;color:#263d48;font:14px/1.65 -apple-system,BlinkMacSystemFont,'PingFang SC',sans-serif}#viewport{position:fixed;inset:0 320px 0 0}canvas{display:block;touch-action:none}aside{position:fixed;right:0;top:0;bottom:0;width:320px;background:#fffffff0;border-left:1px solid #d2dfe3;padding:22px;overflow:auto}h1{font-size:24px;font-weight:550;margin:5px 0 10px}h2{font-size:15px;margin:22px 0 8px}small,p{color:#627882}button{font:inherit;color:inherit;background:#fff;border:1px solid #bccdd5;border-radius:7px;padding:9px 12px;cursor:pointer}button:hover{border-color:#486e80}.primary{background:#365d70;color:white;width:100%;border:0}label{display:block;margin:12px 0}input[type=range]{width:100%;accent-color:#365d70}output{float:right}.row{display:flex;gap:6px;margin:10px 0}.row button{flex:1}#state{padding:10px;background:#e4eef2;border-radius:7px;margin:15px 0}.note{font-size:12px;border-top:1px solid #d2dfe3;padding-top:10px}#loading{position:fixed;left:20px;top:20px;background:white;padding:14px}#loading[hidden]{display:none}@media(max-width:700px){#viewport{position:relative;inset:auto;height:58vh;min-height:300px}aside{position:relative;width:100%;border-left:0;padding:16px}h1{font-size:22px}}</style><script type="importmap">{"imports":{"three":"./three.module.js"}}</script><div id="viewport"></div><div id="loading">正在加载 11.23 新模型…</div><aside><small>LINEAR / SOURCE 2026.11.23</small><h1>凌序 · 抬升与折叠</h1><p>11.23 全域跑台 · 底板固定，架轮活动</p><div id="state">使用态</div><h2>架子与轮组抬升 · 0°—15°</h2><button id="play-lift" class="primary">播放抬升</button><label>支架上抬角度 <output id="lift-value">0°</output><input id="lift" type="range" min="0" max="15" step=".1" value="0"></label><h2>折叠 · 先收架，再翻转头部</h2><button id="play-fold" class="primary">播放折叠</button><label>折叠进度 <output id="fold-value">0%</output><input id="fold" type="range" min="0" max="100" step=".1" value="0"></label><div class="row"><button id="use">使用态</button><button id="flat">折平</button><button id="stand">竖放</button></div><div class="row"><button data-view="iso">45°</button><button data-view="side">正侧面</button><button data-view="bottom">机底</button></div><label><input id="xray" type="checkbox"> X-ray 半透明</label><button id="reset" class="primary">复位</button><p class="note">沿用源文件小扳机。头部翻转折叠、底板保持原位，仅抬升架与轮组沿原轴上抬；动画为运动评审演示，行程、锁止、防夹与承载尚待工程核验。源 STEP 未改。</p><p class="note" id="source-note"></p></aside><script type="module" src="motion.js?v=fold-direction-r3"></script></html>

diff --git a/iterations/linear/motion-20261123/index.html b/iterations/linear/motion-20261123/index.html
@@ -1,1 +1,1 @@
-<!doctype html><html lang="zh-CN"><meta charset="utf-8"><meta name="viewport" content="width=device-width,initial-scale=1"><title>凌序 · 抬升与折叠</title><style>*{box-sizing:border-box}body{margin:0;background:#eaf0f1;color:#263d48;font:14px/1.65 -apple-system,BlinkMacSystemFont,'PingFang SC',sans-serif}#viewport{position:fixed;inset:0 320px 0 0}canvas{display:block;touch-action:none}aside{position:fixed;right:0;top:0;bottom:0;width:320px;background:#fffffff0;border-left:1px solid #d2dfe3;padding:22px;overflow:auto}h1{font-size:24px;font-weight:550;margin:5px 0 10px}h2{font-size:15px;margin:22px 0 8px}small,p{color:#627882}button{font:inherit;color:inherit;background:#fff;border:1px solid #bccdd5;border-radius:7px;padding:9px 12px;cursor:pointer}button:hover{border-color:#486e80}.primary{background:#365d70;color:white;width:100%;border:0}label{display:block;margin:12px 0}input[type=range]{width:100%;accent-color:#365d70}output{float:right}.row{display:flex;gap:6px;margin:10px 0}.row button{flex:1}#state{padding:10px;background:#e4eef2;border-radius:7px;margin:15px 0}.note{font-size:12px;border-top:1px solid #d2dfe3;padding-top:10px}#loading{position:fixed;left:20px;top:20px;background:white;padding:14px}#loading[hidden]{display:none}@media(max-width:700px){#viewport{position:relative;inset:auto;height:58vh;min-height:300px}aside{position:relative;width:100%;border-left:0;padding:16px}h1{font-size:22px}}</style><script type="importmap">{"imports":{"three":"./three.module.js"}}</script><div id="viewport"></div><div id="loading">正在加载 11.23 新模型…</div><aside><small>LINEAR / SOURCE 2026.11.23</small><h1>凌序 · 抬升与折叠</h1><p>11.23 全域跑台 · 底板固定，架轮活动</p><div id="state">使用态</div><h2>架子与轮组抬升 · 0°—15°</h2><button id="play-lift" class="primary">播放抬升</button><label>支架上抬角度 <output id="lift-value">0°</output><input id="lift" type="range" min="0" max="15" step=".1" value="0"></label><h2>折叠 · 先收架，再反向翻转头部</h2><button id="play-fold" class="primary">播放折叠</button><label>折叠进度 <output id="fold-value">0%</output><input id="fold" type="range" min="0" max="100" step=".1" value="0"></label><div class="row"><button id="use">使用态</button><button id="flat">折平</button><button id="stand">竖放</button></div><div class="row"><button data-view="iso">45°</button><button data-view="side">正侧面</button><button data-view="bottom">机底</button></div><label><input id="xray" type="checkbox"> X-ray 半透明</label><button id="reset" class="primary">复位</button><p class="note">沿用源文件小扳机。头部反向折叠、底板保持原位，仅抬升架与轮组沿原轴上抬；动画为运动评审演示，行程、锁止、防夹与承载尚待工程核验。源 STEP 未改。</p><p class="note" id="source-note"></p></aside><script type="module" src="motion.js?v=fixed-plate-r2"></script></html>
+<!doctype html><html lang="zh-CN"><meta charset="utf-8"><meta name="viewport" content="width=device-width,initial-scale=1"><title>凌序 · 抬升与折叠</title><style>*{box-sizing:border-box}body{margin:0;background:#eaf0f1;color:#263d48;font:14px/1.65 -apple-system,BlinkMacSystemFont,'PingFang SC',sans-serif}#viewport{position:fixed;inset:0 320px 0 0}canvas{display:block;touch-action:none}aside{position:fixed;right:0;top:0;bottom:0;width:320px;background:#fffffff0;border-left:1px solid #d2dfe3;padding:22px;overflow:auto}h1{font-size:24px;font-weight:550;margin:5px 0 10px}h2{font-size:15px;margin:22px 0 8px}small,p{color:#627882}button{font:inherit;color:inherit;background:#fff;border:1px solid #bccdd5;border-radius:7px;padding:9px 12px;cursor:pointer}button:hover{border-color:#486e80}.primary{background:#365d70;color:white;width:100%;border:0}label{display:block;margin:12px 0}input[type=range]{width:100%;accent-color:#365d70}output{float:right}.row{display:flex;gap:6px;margin:10px 0}.row button{flex:1}#state{padding:10px;background:#e4eef2;border-radius:7px;margin:15px 0}.note{font-size:12px;border-top:1px solid #d2dfe3;padding-top:10px}#loading{position:fixed;left:20px;top:20px;background:white;padding:14px}#loading[hidden]{display:none}@media(max-width:700px){#viewport{position:relative;inset:auto;height:58vh;min-height:300px}aside{position:relative;width:100%;border-left:0;padding:16px}h1{font-size:22px}}</style><script type="importmap">{"imports":{"three":"./three.module.js"}}</script><div id="viewport"></div><div id="loading">正在加载 11.23 新模型…</div><aside><small>LINEAR / SOURCE 2026.11.23</small><h1>凌序 · 抬升与折叠</h1><p>11.23 全域跑台 · 底板固定，架轮活动</p><div id="state">使用态</div><h2>架子与轮组抬升 · 0°—15°</h2><button id="play-lift" class="primary">播放抬升</button><label>支架上抬角度 <output id="lift-value">0°</output><input id="lift" type="range" min="0" max="15" step=".1" value="0"></label><h2>折叠 · 先收架，再翻转头部</h2><button id="play-fold" class="primary">播放折叠</button><label>折叠进度 <output id="fold-value">0%</output><input id="fold" type="range" min="0" max="100" step=".1" value="0"></label><div class="row"><button id="use">使用态</button><button id="flat">折平</button><button id="stand">竖放</button></div><div class="row"><button data-view="iso">45°</button><button data-view="side">正侧面</button><button data-view="bottom">机底</button></div><label><input id="xray" type="checkbox"> X-ray 半透明</label><button id="reset" class="primary">复位</button><p class="note">沿用源文件小扳机。头部翻转折叠、底板保持原位，仅抬升架与轮组沿原轴上抬；动画为运动评审演示，行程、锁止、防夹与承载尚待工程核验。源 STEP 未改。</p><p class="note" id="source-note"></p></aside><script type="module" src="motion.js?v=fold-direction-r3"></script></html>
